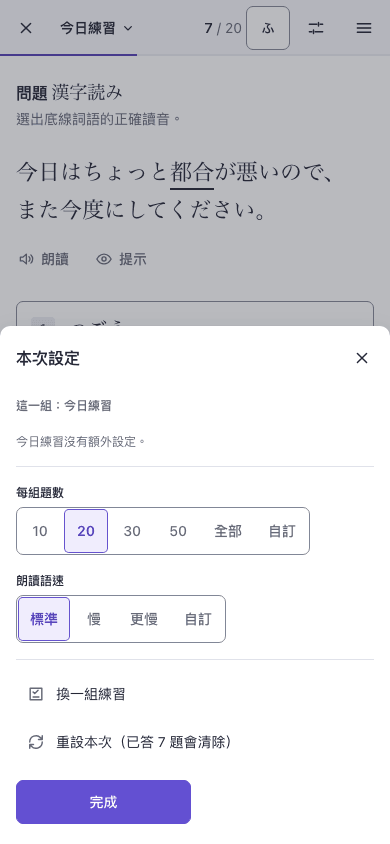
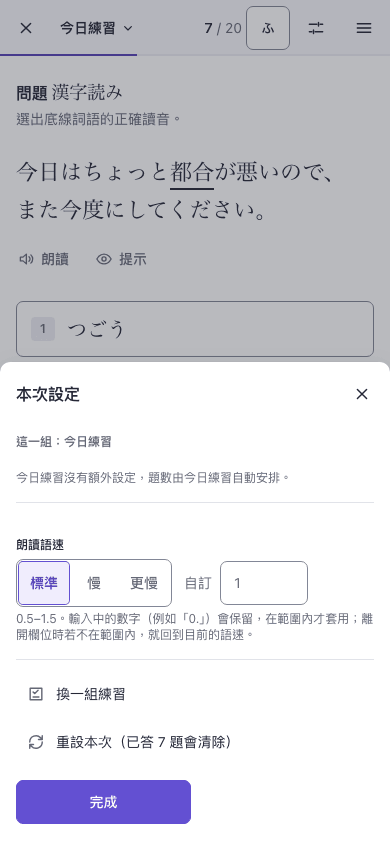
docs(design): apply JT-1 review round 3 (#850)
Settings inventories now equal ModePicker/usePracticeSession/levelRange;
design the custom session-length and speech-rate inputs; unanswered
automation value on recall; all five Small Talk dimensions in World.

diff --git a/docs/design/jabiko/reference/session.html b/docs/design/jabiko/reference/session.html
@@ -45,10 +45,10 @@
 </head>
 <body>
 <div class="jt-app">
-  <header class="jt-session-bar" data-state="q correct wrong revealed recall complete perfect empty loading error settings settings-basic settings-range">
+  <header class="jt-session-bar" data-state="q correct wrong revealed recall complete perfect empty loading error settings settings-basic settings-range settings-custom">
     <div class="jt-session-left">
       <a class="jt-iconbtn" href="today.html" aria-label="離開練習，回到今日"><i data-icon="close"></i></a>
-      <button class="jt-session-title" type="button" aria-haspopup="dialog" aria-label="這一組：今日練習。換一組"><span><span data-l="zh-Hant"><span data-state="q correct wrong revealed recall settings complete perfect empty loading error">今日練習</span><span data-state="settings-basic">基礎變化</span><span data-state="settings-range">単字讀音</span></span><span data-l="en">Today's set</span></span><i data-icon="chevron" class="jt-icon-sm"></i></button>
+      <button class="jt-session-title" type="button" aria-haspopup="dialog" aria-label="這一組：今日練習。換一組"><span><span data-l="zh-Hant"><span data-state="q correct wrong revealed recall settings complete perfect empty loading error">今日練習</span><span data-state="settings-custom">句型練習</span><span data-state="settings-basic">基礎變化</span><span data-state="settings-range">単字讀音</span></span><span data-l="en">Today's set</span></span><i data-icon="chevron" class="jt-icon-sm"></i></button>
     </div>
     <div class="jt-progress" aria-label="進度：第 7 題，共 20 題">
       <span class="jt-meter" aria-hidden="true"><span style="width:35%"></span></span>
@@ -66,7 +66,7 @@
     <div class="jt-layout">
       <div>
         <!-- ============ Question (all answer states) ============ -->
-        <section class="drill-panel" id="drill" aria-labelledby="qtype" data-state="q correct wrong revealed settings settings-range"
+        <section class="drill-panel" id="drill" aria-labelledby="qtype" data-state="q correct wrong revealed settings settings-range settings-custom"
           data-question-id="n3-kanji-tsugou" data-question-type="kanji-reading" data-result="unanswered">
           <div class="jt-qhead">
             <h1 class="jt-h1" id="qtype"><span data-l="zh-Hant">問題</span><span data-l="en">Question</span> <span class="jt-qtype" lang="ja">漢字読み</span></h1>
@@ -75,7 +75,7 @@
           <p class="jt-prompt jt-qprompt" lang="ja">今日はちょっと<u>都合</u>が悪いので、また今度にしてください。</p>
           <div class="jt-aids">
             <button class="jt-btn jt-btn-ghost" type="button" aria-label="播放這一句"><i data-icon="speaker"></i><span data-l="zh-Hant">朗讀</span><span data-l="en">Listen</span></button>
-            <button class="jt-btn jt-btn-ghost" type="button" aria-expanded="false" data-state="q settings settings-range"><i data-icon="eye"></i><span data-l="zh-Hant">提示</span><span data-l="en">Hint</span></button>
+            <button class="jt-btn jt-btn-ghost" type="button" aria-expanded="false" data-state="q settings settings-range settings-custom"><i data-icon="eye"></i><span data-l="zh-Hant">提示</span><span data-l="en">Hint</span></button>
           </div>
 
           <div class="jt-options" role="group" aria-label="選項">
@@ -88,7 +88,7 @@
             <button class="jt-btn" type="button" id="reveal"><i data-icon="eye"></i><span data-l="zh-Hant">看答案</span><span data-l="en">Show answer</span></button>
             <button class="jt-btn jt-btn-primary" type="button" id="next"><span data-l="zh-Hant">下一題</span><span data-l="en">Next</span><i data-icon="arrow"></i></button>
           </div>
-          <p class="jt-kbd-hint" data-state="q settings settings-range" style="margin-top:12px"><i data-icon="keyboard" class="jt-icon-sm"></i><span class="jt-kbd">1</span>–<span class="jt-kbd">4</span> <span data-l="zh-Hant">選答</span><span data-l="en">answer</span> · <span class="jt-kbd">Enter</span> <span data-l="zh-Hant">下一題</span><span data-l="en">next</span></p>
+          <p class="jt-kbd-hint" data-state="q settings settings-range settings-custom" style="margin-top:12px"><i data-icon="keyboard" class="jt-icon-sm"></i><span class="jt-kbd">1</span>–<span class="jt-kbd">4</span> <span data-l="zh-Hant">選答</span><span data-l="en">answer</span> · <span class="jt-kbd">Enter</span> <span data-l="zh-Hant">下一題</span><span data-l="en">next</span></p>
 
           <!-- Feedback: below the marked options and the action row (D-07); nothing above it moves. -->
           <section class="jt-feedback" aria-live="polite" aria-labelledby="verdict" data-state="correct wrong revealed">
@@ -118,7 +118,7 @@
         </section>
 
         <!-- ============ Typed recall (basic conjugation) ============ -->
-        <section class="drill-panel" aria-labelledby="qtype-recall" data-state="recall settings-basic" data-question-type="conjugation-recall">
+        <section class="drill-panel" aria-labelledby="qtype-recall" data-state="recall settings-basic" data-question-type="conjugation-recall" data-result="unanswered">
           <div class="jt-qhead"><h1 class="jt-h1" id="qtype-recall">問題 <span class="jt-qtype" lang="ja">基礎変化</span></h1></div>
           <p class="jt-qinstruction">把動詞改成指定的形，自己輸入答案。</p>
           <div class="recall">
@@ -213,7 +213,7 @@
       </div>
 
       <!-- ============ Aside: this session (≥ 1024; below, moves to sheets) ============ -->
-      <aside class="jt-aside jt-hide-medium" aria-label="本次練習" data-state="q correct wrong revealed recall settings settings-basic settings-range">
+      <aside class="jt-aside jt-hide-medium" aria-label="本次練習" data-state="q correct wrong revealed recall settings settings-basic settings-range settings-custom">
         <section class="aside-set">
           <h2 class="jt-aside-h">這一組</h2>
           <p class="jt-h3" style="color:var(--jt-text-primary);margin:0">今日練習</p>
@@ -247,7 +247,7 @@
   </main>
 
   <!-- ============ Session settings sheet (compact / medium entry) ============ -->
-  <div data-state="settings settings-basic settings-range">
+  <div data-state="settings settings-basic settings-range settings-custom">
     <div class="jt-scrim"></div>
     <div class="jt-dialog settings-sheet" role="dialog" aria-modal="true" aria-labelledby="set-h" data-sheet>
       <div class="jt-dialog-head"><h2 class="jt-dialog-title" id="set-h">本次設定</h2><button class="jt-iconbtn" type="button" aria-label="關閉" style="margin:-10px -10px 0 0"><i data-icon="close"></i></button></div>
@@ -255,7 +255,7 @@
       <section class="set-config" data-state="settings-basic" aria-labelledby="cfg-h">
         <h3 class="jt-subhead" id="cfg-h">這一組：基礎變化</h3>
         <div class="jt-field"><span class="jt-field-label" id="pos-l">練習類型</span>
-          <div class="jt-segmented" data-multi role="radiogroup" aria-labelledby="pos-l"><button role="radio" aria-checked="true">動詞</button><button role="radio" aria-checked="false">い形容詞</button><button role="radio" aria-checked="false">な形容詞</button><button role="radio" aria-checked="false">名詞</button><button role="radio" aria-checked="false">副詞</button><button role="radio" aria-checked="false">寒暄語</button><button role="radio" aria-checked="false">混合</button></div>
+          <div class="jt-segmented" data-multi role="radiogroup" aria-labelledby="pos-l"><button role="radio" aria-checked="true">動詞</button><button role="radio" aria-checked="false">い形容詞</button><button role="radio" aria-checked="false">な形容詞</button><button role="radio" aria-checked="false">名詞</button><button role="radio" aria-checked="false">混合</button></div>
         </div>
         <div class="jt-field"><span class="jt-field-label" id="am-l">答題方式</span>
           <div class="jt-segmented" role="radiogroup" aria-labelledby="am-l"><button role="radio" aria-checked="false">選項</button><button role="radio" aria-checked="true">自己輸入</button></div>
@@ -265,7 +265,7 @@
           <p class="jt-field-hint">N2、N1 目前沒有這類題目。</p>
         </div>
         <div class="jt-field"><span class="jt-field-label" id="fo-l">練習重點</span>
-          <div class="jt-segmented" data-multi role="radiogroup" aria-labelledby="fo-l"><button role="radio" aria-checked="true">單一形</button><button role="radio" aria-checked="false">核心動詞變化</button><button role="radio" aria-checked="false">て/た比較</button><button role="radio" aria-checked="false">否定整理</button><button role="radio" aria-checked="false">普通形整理</button></div>
+          <div class="jt-segmented" data-multi role="radiogroup" aria-labelledby="fo-l"><button role="radio" aria-checked="true">單一形</button><button role="radio" aria-checked="false">核心動詞變化</button><button role="radio" aria-checked="false">て/た比較</button><button role="radio" aria-checked="false">否定整理</button><button role="radio" aria-checked="false">普通形整理</button><button role="radio" aria-checked="false">必要過去</button></div>
         </div>
         <div class="jt-field"><span class="jt-field-label" id="vg-l">動詞類別（可複選）</span>
           <div class="jt-segmented" data-multi role="group" aria-labelledby="vg-l"><button aria-pressed="false">全部</button><button aria-pressed="true">一類</button><button aria-pressed="true">二類</button><button aria-pressed="false">三類</button></div>
@@ -278,21 +278,34 @@
       </section>
       <section class="set-config" data-state="settings" aria-labelledby="cfg2-h">
         <h3 class="jt-subhead" id="cfg2-h">這一組：今日練習</h3>
-        <p class="jt-field-hint">今日練習沒有額外設定。</p>
+        <p class="jt-field-hint">今日練習沒有額外設定，題數由今日練習自動安排。</p>
+      </section>
+      <section class="set-config" data-state="settings-custom" aria-labelledby="cfg4-h">
+        <h3 class="jt-subhead" id="cfg4-h">這一組：句型練習</h3>
+        <p class="jt-field-hint">句型練習沒有額外設定。</p>
       </section>
       <section class="set-config" data-state="settings-range" aria-labelledby="cfg3-h">
         <h3 class="jt-subhead" id="cfg3-h">這一組：単字讀音</h3>
         <div class="jt-field"><span class="jt-field-label" id="rg-l">題庫範圍</span>
-          <div class="jt-segmented" data-multi role="radiogroup" aria-labelledby="rg-l"><button role="radio" aria-checked="false">全部</button><button role="radio" aria-checked="false">N1＋N2</button><button role="radio" aria-checked="false">N2＋N3</button><button role="radio" aria-checked="true">N3＋N4</button><button role="radio" aria-checked="false">N4＋N5</button><button role="radio" aria-checked="false">完全新手</button></div>
+          <div class="jt-segmented" data-multi role="radiogroup" aria-labelledby="rg-l"><button role="radio" aria-checked="false">全部</button><button role="radio" aria-checked="false">N1＋N2</button><button role="radio" aria-checked="true">N2＋N3</button><button role="radio" aria-checked="false">N4＋N5</button></div>
         </div>
-        <p class="jt-field-hint">綜合考題庫用同一個控制項；改變範圍會重新開始這一組。</p>
+        <p class="jt-field-hint">只有単字讀音有這個設定；綜合考題庫的程度由「N1〜N4 備考」選擇。改變範圍會重新開始這一組。</p>
       </section>
       <div>
-        <div class="jt-field"><span class="jt-field-label" id="len-l">每組題數</span>
-          <div class="jt-segmented" role="radiogroup" aria-labelledby="len-l"><button role="radio" aria-checked="false">10</button><button role="radio" aria-checked="true">20</button><button role="radio" aria-checked="false">30</button><button role="radio" aria-checked="false">50</button><button role="radio" aria-checked="false">全部</button><button role="radio" aria-checked="false">自訂</button></div>
+        <div class="jt-field" data-state="settings-basic settings-range settings-custom"><span class="jt-field-label" id="len-l">每組題數</span>
+          <div class="jt-custom-row">
+            <div class="jt-segmented" role="group" aria-labelledby="len-l"><button aria-pressed="false">10</button><button aria-pressed="true" data-state="settings settings-basic settings-range">20</button><button aria-pressed="false" data-state="settings-custom">20</button><button aria-pressed="false">30</button><button aria-pressed="false">50</button><button aria-pressed="false">全部</button></div>
+            <label class="jt-custom" data-state="settings settings-basic settings-range"><span>自訂</span><input class="jt-input jt-num" type="number" min="1" max="999" inputmode="numeric" placeholder="題數" aria-label="自訂題數"></label>
+            <label class="jt-custom" data-state="settings-custom" data-selected><span>自訂</span><input class="jt-input jt-num" type="number" min="1" max="999" inputmode="numeric" value="15" aria-label="自訂題數"></label>
+          </div>
         </div>
         <div class="jt-field"><span class="jt-field-label" id="rate-l">朗讀語速</span>
-          <div class="jt-segmented" role="radiogroup" aria-labelledby="rate-l"><button role="radio" aria-checked="true">標準</button><button role="radio" aria-checked="false">慢</button><button role="radio" aria-checked="false">更慢</button><button role="radio" aria-checked="false">自訂</button></div>
+          <div class="jt-custom-row">
+            <div class="jt-segmented" role="group" aria-labelledby="rate-l"><button aria-pressed="true" data-state="settings settings-basic settings-range">標準</button><button aria-pressed="false" data-state="settings-custom">標準</button><button aria-pressed="false">慢</button><button aria-pressed="false">更慢</button></div>
+            <label class="jt-custom" data-state="settings settings-basic settings-range"><span>自訂</span><input class="jt-input jt-num" type="number" min="0.5" max="1.5" step="0.05" inputmode="decimal" placeholder="1" aria-label="自訂語速"></label>
+            <label class="jt-custom" data-state="settings-custom" data-selected><span>自訂</span><input class="jt-input jt-num" type="number" min="0.5" max="1.5" step="0.05" inputmode="decimal" value="0.85" aria-label="自訂語速" aria-describedby="rate-hint"></label>
+          </div>
+          <p class="jt-field-hint" id="rate-hint">0.5–1.5。輸入中的數字（例如「0.」）會保留，在範圍內才套用；離開欄位時若不在範圍內，就回到目前的語速。</p>
         </div>
       </div>
       <div style="border-top:1px solid var(--jt-border-subtle);padding-top:12px;display:grid;gap:4px">
@@ -322,18 +335,18 @@
     document.getElementById("tr").textContent = "會議資料已經事先寄給所有人，所以當天決定縮短說明，把問答時間留長一點。這是一段刻意拉長的翻譯，用來確認回饋區塊出現時，上方的選項和下一題按鈕都不會移動。";
   }
   if (state === "correct") {
-    drill.dataset.selected = "つごう"; opts[0].dataset.selected = "true"; drill.dataset.result = "correct"; drill.dataset.expectedAnswer = "つごう";
+    drill.dataset.selected = opts[0].querySelector(".jt-option-text").textContent; opts[0].dataset.selected = "true"; drill.dataset.result = "correct"; drill.dataset.expectedAnswer = opts[0].querySelector(".jt-option-text").textContent;
     verdict(opts[0], "correct", `${O}${en ? "Correct" : "正解"}`);
     opts.slice(1).forEach((o) => verdict(o, "idle", ""));
   }
   if (state === "wrong") {
-    drill.dataset.selected = "とごう"; opts[1].dataset.selected = "true"; drill.dataset.result = "wrong"; drill.dataset.expectedAnswer = "つごう";
+    drill.dataset.selected = opts[1].querySelector(".jt-option-text").textContent; opts[1].dataset.selected = "true"; drill.dataset.result = "wrong"; drill.dataset.expectedAnswer = opts[0].querySelector(".jt-option-text").textContent;
     verdict(opts[0], "target", `${O}${en ? "Correct" : "正解"}`);
     verdict(opts[1], "wrong", `${X}${en ? "Your answer" : "你的答案"}`);
     [opts[2], opts[3]].forEach((o) => verdict(o, "idle", ""));
   }
   if (state === "revealed") {
-    drill.dataset.result = "revealed"; drill.dataset.expectedAnswer = "つごう";
+    drill.dataset.result = "revealed"; drill.dataset.expectedAnswer = opts[0].querySelector(".jt-option-text").textContent;
     verdict(opts[0], "revealed", `${R}${en ? "Answer" : "答案"}`);
     opts.slice(1).forEach((o) => verdict(o, "idle", ""));
   }

diff --git a/docs/design/jabiko/reference/jabiko.css b/docs/design/jabiko/reference/jabiko.css
@@ -373,6 +373,14 @@ ruby rt { font-size: 0.5em; font-weight: 400; }
 .jt-segmented button:hover { background: var(--jt-surface-inset); color: var(--jt-text-primary); }
 .jt-segmented button[aria-pressed="true"], .jt-segmented button[aria-checked="true"] { background: var(--jt-accent-background); color: var(--jt-accent-foreground); font-weight: 600; box-shadow: inset 0 0 0 1px var(--jt-selection-edge); }
 .jt-segmented button:focus-visible, .jt-segmented a:focus-visible { outline-offset: -3px; }
+/* Presets + a labelled custom number field (session length, speech rate).
+   When the effective value is custom, no preset is pressed and the field is
+   marked selected (data-selected). */
+.jt-custom-row { display: flex; flex-wrap: wrap; align-items: center; gap: 8px 12px; }
+.jt-custom { display: inline-flex; align-items: center; gap: 8px; font-size: 14px; color: var(--jt-text-secondary); }
+.jt-custom .jt-input { width: 88px; }
+.jt-custom[data-selected] { color: var(--jt-accent-foreground); font-weight: 600; }
+.jt-custom[data-selected] .jt-input { border-color: var(--jt-selection-edge); box-shadow: inset 0 0 0 1px var(--jt-selection-edge); background: var(--jt-accent-background); color: var(--jt-accent-foreground); font-weight: 600; }
 /* Multi-select variant (data-multi): segments are independent aria-pressed
    toggles; "全部" clears the others. Same look, wraps instead of scrolling. */
 .jt-segmented[data-multi] { flex-wrap: wrap; overflow: visible; }

diff --git a/docs/design/jabiko/reference/world.html b/docs/design/jabiko/reference/world.html
@@ -164,6 +164,8 @@
         <h2 class="jt-h3" id="w-fb">佐藤さん鬆了一口氣，回答了你的問題</h2>
         <ul class="jt-dims" aria-label="五個面向">
           <li class="jt-dim" data-status="met"><i data-mark="o"></i><span class="jt-dim-name">聽得懂<span class="jt-dim-state">做到了</span></span><p class="jt-secondary">意思清楚。</p></li>
+          <li class="jt-dim" data-status="met"><i data-mark="o"></i><span class="jt-dim-name">正確<span class="jt-dim-state">做到了</span></span><p class="jt-secondary">文法與用字正確。</p></li>
+          <li class="jt-dim" data-status="met"><i data-mark="o"></i><span class="jt-dim-name">自然<span class="jt-dim-state">做到了</span></span><p class="jt-secondary">早上在月台這樣說很自然。</p></li>
           <li class="jt-dim" data-status="met"><i data-mark="o"></i><span class="jt-dim-name">接得下去<span class="jt-dim-state">做到了</span></span><p class="jt-secondary">問了接下來怎麼去，對方容易回答。</p></li>
           <li class="jt-dim" data-status="met"><i data-mark="o"></i><span class="jt-dim-name">場合語氣<span class="jt-dim-state">做到了</span></span><p class="jt-secondary">對剛認識的同學用です・ます剛好。</p></li>
         </ul>

diff --git a/docs/design/jabiko/DESIGN.md b/docs/design/jabiko/DESIGN.md
@@ -381,7 +381,7 @@ primary without a level moves focus to the level group and shows the existing
 
 ### 7.2 Practice session `/challenge` — `session`
 
-States: `q`, `correct`, `wrong`, `revealed`, `recall`, `settings`, `settings-basic`, `settings-range`, `complete`,
+States: `q`, `correct`, `wrong`, `revealed`, `recall`, `settings`, `settings-basic`, `settings-range`, `settings-custom`, `complete`,
 `perfect`, `empty`, `loading`, `error`. Anatomy: h1 "問題 + question type
 (Mincho)" → instruction (secondary) → prompt (`ja.prompt`, target
 underlined) or headword block → aids (朗讀; 提示 before answering) → options → action row (fixed bottom
@@ -392,17 +392,33 @@ answer~~ → answer), 本次設定 (length · rate + 調整). Below 1024 the sam
 capabilities live in the title button (switcher), the settings sheet and
 completion. On wide widths 調整 opens the same settings as a dialog.
 
-Settings (`session?state=settings`, `settings-basic`, `settings-range`): first "這一組：<set>"
-with exactly the conditional controls the current mode has today
-(`ModePicker`): 題庫範圍 single choice (全部 · N1＋N2 · N2＋N3 · N3＋N4 · N4＋N5)
-for vocabulary reading and the comprehensive bank; for 基礎變化 練習類型
-(動詞 · い形容詞 · な形容詞 · 名詞 · 副詞 · 寒暄語 · 混合), 答題方式 (選項 / 自己輸入,
-verbs only, where the current rule allows it), 題庫範圍 multi-select (全部
-clears; levels without items disabled with a reason), 練習重點, 動詞類別
-multi-select (verbs only), 目標形 select (single-form focus only) — plus "改變
-這些設定會重新開始這一組". Then 每組題數 and 朗讀語速, then 換一組練習 and 重設本次
-(stating what is cleared). Multi-select groups are `role="group"` with
-`aria-pressed` segments (`data-multi`); single choices are radiogroups.
+Settings (`session?state=settings`, `settings-basic`, `settings-range`,
+`settings-custom`): first "這一組：<set>" with exactly the conditional controls
+the current mode has today (`ModePicker`, `usePracticeSession`), never more:
+
+- **単字讀音 only**: 題庫範圍 single choice from `VOCAB_LEVEL_RANGE_OPTIONS`
+  (全部 · N1＋N2 · N2＋N3 · N4＋N5). The comprehensive bank has no range control —
+  its level is the N1〜N4 備考 preset.
+- **基礎變化**: 練習類型 (動詞 · い形容詞 · な形容詞 · 名詞 · 混合); 答題方式
+  (選項 / 自己輸入) for verbs where the current rule allows it; 題庫範圍
+  multi-select N1–N5 (全部 clears; levels without items disabled with a
+  reason); 練習重點 from the available focus options (verbs: 單一形 · 核心動詞變化 ·
+  て/た比較 · 否定整理 · 普通形整理 · 必要過去; non-verbs add く/に修飾 and drop the
+  verb-only ones); 動詞類別 multi-select (verbs only); 目標形 select (single-form
+  focus only; the compatible subset of the target-form inventory).
+- Other sets show "沒有額外設定".
+
+A note says changing these restarts the set. Then **每組題數**: presets 10 · 20 ·
+30 · 50 · 全部 (shown for every set except daily, review and bookmarks, as
+today) plus a labelled 自訂 number field (1–999, numeric keypad); **朗讀語速**:
+標準 · 慢 · 更慢 plus 自訂 (0.5–1.5, step 0.05, decimal keypad). When the
+effective value is custom, no preset is pressed and the 自訂 field is marked
+selected (accent border/fill). The rate field keeps the learner's draft
+("0", "0.") and applies it only once it parses in range; on blur an
+out-of-range draft reverts to the effective rate (`TtsRatePicker`). Then 換一組練習
+and 重設本次 (stating what is cleared). Multi-select groups are `role="group"`
+with `aria-pressed` segments (`data-multi`); single choices are radiogroups;
+preset rows are `aria-pressed` groups as today.
 
 Typed recall: part of speech + reading meta, headword (dictionary form),
 target form as an outlined label ("改成 て形"), labelled field + 送出, hint

diff --git a/docs/design/jabiko/VERIFICATION.md b/docs/design/jabiko/VERIFICATION.md
@@ -16,10 +16,10 @@ macOS system faces (the harness downloads nothing).
 | Token parity: every `tokens.json` color equals the harness custom property | 33 roles × 2 themes | **66/66** |
 | Tachiko parity: every role sourced `tachiko`/`tachiko-protected` equals the FOUNDATION.md §2 snapshot | 30 roles | **30/30** |
 | Contrast: every declared pair meets its minimum | 30 pairs × 2 themes | **60/60** |
-| Board checks: no horizontal overflow; exactly one visible h1; ≥ 44px targets below 1024px (touch; inline links in running text exempt); Japanese carriers inside `lang="ja"`; every visible control has an accessible name independent of width-hidden text; 3px focus ring on the first 14 Tab stops (1440); bar text never wraps and bar controls never overlap | 12 boards × 48 states × 5 widths (320, 390, 768, 1280, 1440); < 1024 emulated as touch | **240/240** |
+| Board checks: no horizontal overflow; exactly one visible h1; ≥ 44px targets below 1024px (touch; inline links in running text exempt); Japanese carriers inside `lang="ja"`; every visible control has an accessible name independent of width-hidden text; 3px focus ring on the first 14 Tab stops (1440); bar text never wraps and bar controls never overlap | 12 boards × 49 states × 5 widths (320, 390, 768, 1280, 1440); < 1024 emulated as touch | **245/245** |
 | D-07 geometry: the four options **and Next** keep identical boxes in `q`, `correct`, `wrong`, `revealed` | 5 widths × {short, long} × {zh-Hant, en} | **20/20** |
 | D-07 fold: at 390×844 the verdict line ends above the fixed action row | `session?state=wrong` | **pass** |
-| Captures | light, dark, forced colors, English overlay, long-content fixture | **90** renders |
+| Captures | light, dark, forced colors, English overlay, long-content fixture | **91** renders |
 
 Specimen boards (`index`, `foundation`, `components`) are exempt from the
 target and focus checks because they show forced states side by side.
@@ -93,7 +93,20 @@ text, 0 missing text and 0 elements moved** by preparation (fail-closed).
      `(pointer: coarse)`; 768px is now touch-emulated and target-checked.
   7. *Stale anatomy order; author note visible in the World frame* —
      **fixed**.
-- **Package review, round 3.** See §5.
+- **Package review, round 3 (fresh Codex reviewer).** Round-2 items 1, 2, 5,
+  6, 7 VERIFIED; 3 and 4 partially. Verdict "Blocking findings: 2".
+  Dispositions:
+  1. *Settings inventories exceeded production* (副詞/寒暄語, missing 必要過去,
+     range options outside `VOCAB_LEVEL_RANGE_OPTIONS`, a range selector for the
+     comprehensive bank) — **fixed**: inventories now equal `ModePicker` /
+     `usePracticeSession` / `levelRange.ts`; length hidden for daily as today.
+  2. *Custom length/rate had no input state* — **fixed**: presets plus labelled
+     自訂 number fields, a selected-custom state and the rate draft rule
+     (`session?state=settings-custom`, DESIGN §7.2).
+  3. *`unanswered` missing on recall; long fixture kept short-fixture
+     attributes* — **fixed**.
+  4. *World feedback showed three of five dimensions* — **fixed** (all five).
+- **Package review, round 4.** See §5.
 
 ## 4. What design evidence does not prove
 

diff --git a/docs/design/jabiko/CAPABILITIES.md b/docs/design/jabiko/CAPABILITIES.md
@@ -41,9 +41,9 @@ column is the < 1024px path; "Evidence" names the board and state.
 | 句型練習, 句中填空, 単字讀音, 基礎變化 | same | Switcher "專項練習" (all four) | same | `sets?state=switcher` |
 | JLPT question-type sections, unavailable sections | `/mock`, `mockExam.ts` | JLPT sections page; "準備中" status word | same | `sets?state=mock` |
 | Deep links `/challenge?mode=&level=` | `challengeDeepLink.ts` | unchanged | unchanged | — |
-| Set configuration: 題庫範圍 (vocab / exam ranges); for 基礎變化 練習類型, 答題方式 (choice/recall), level multi-select (unavailable levels disabled), 練習重點, 動詞類別 multi-select, 目標形 | `ModePicker` (conditional) | Aside 調整 → settings dialog "這一組" section | Session bar sliders → settings sheet "這一組" | `session?state=settings-basic` (390, 1440), `settings-range` |
-| Session length (10/20/30/50/all/custom) | `SessionLengthPicker` | Aside "本次設定 · 調整" | Session bar sliders → settings sheet | `session?state=settings` |
-| TTS rate (normal/slow/slower/custom) | `TtsRatePicker` | same | same | `session?state=settings` |
+| Set configuration: 題庫範圍 (単字讀音 only); for 基礎變化 練習類型, 答題方式 (choice/recall), level multi-select (unavailable levels disabled), 練習重點, 動詞類別 multi-select, 目標形 | `ModePicker` (conditional) | Aside 調整 → settings dialog "這一組" section | Session bar sliders → settings sheet "這一組" | `session?state=settings-basic` (390, 1440), `settings-range` |
+| Session length (10/20/30/50/all + custom 1–999) | `SessionLengthPicker` | Aside "本次設定 · 調整" | Session bar sliders → settings sheet | `session?state=settings`, `settings-custom` |
+| TTS rate (normal/slow/slower + custom 0.5–1.5 with draft retention) | `TtsRatePicker` | same | same | `session?state=settings`, `settings-custom` |
 | Reset session | `ModePicker` | Aside "重設本次" | Settings sheet (states what is cleared) | `session?state=settings` |
 | Choice answering, 1–4 + Enter, reveal, next | `DrillPanel` | Options + action row + keycap hint | Options; sticky action row (Enter on hardware keyboards) | `session` states |
 | Typed recall, IME-safe Enter | `DrillPanel` recall | Recall form with hint | same; hint visible | `session?state=recall` |
